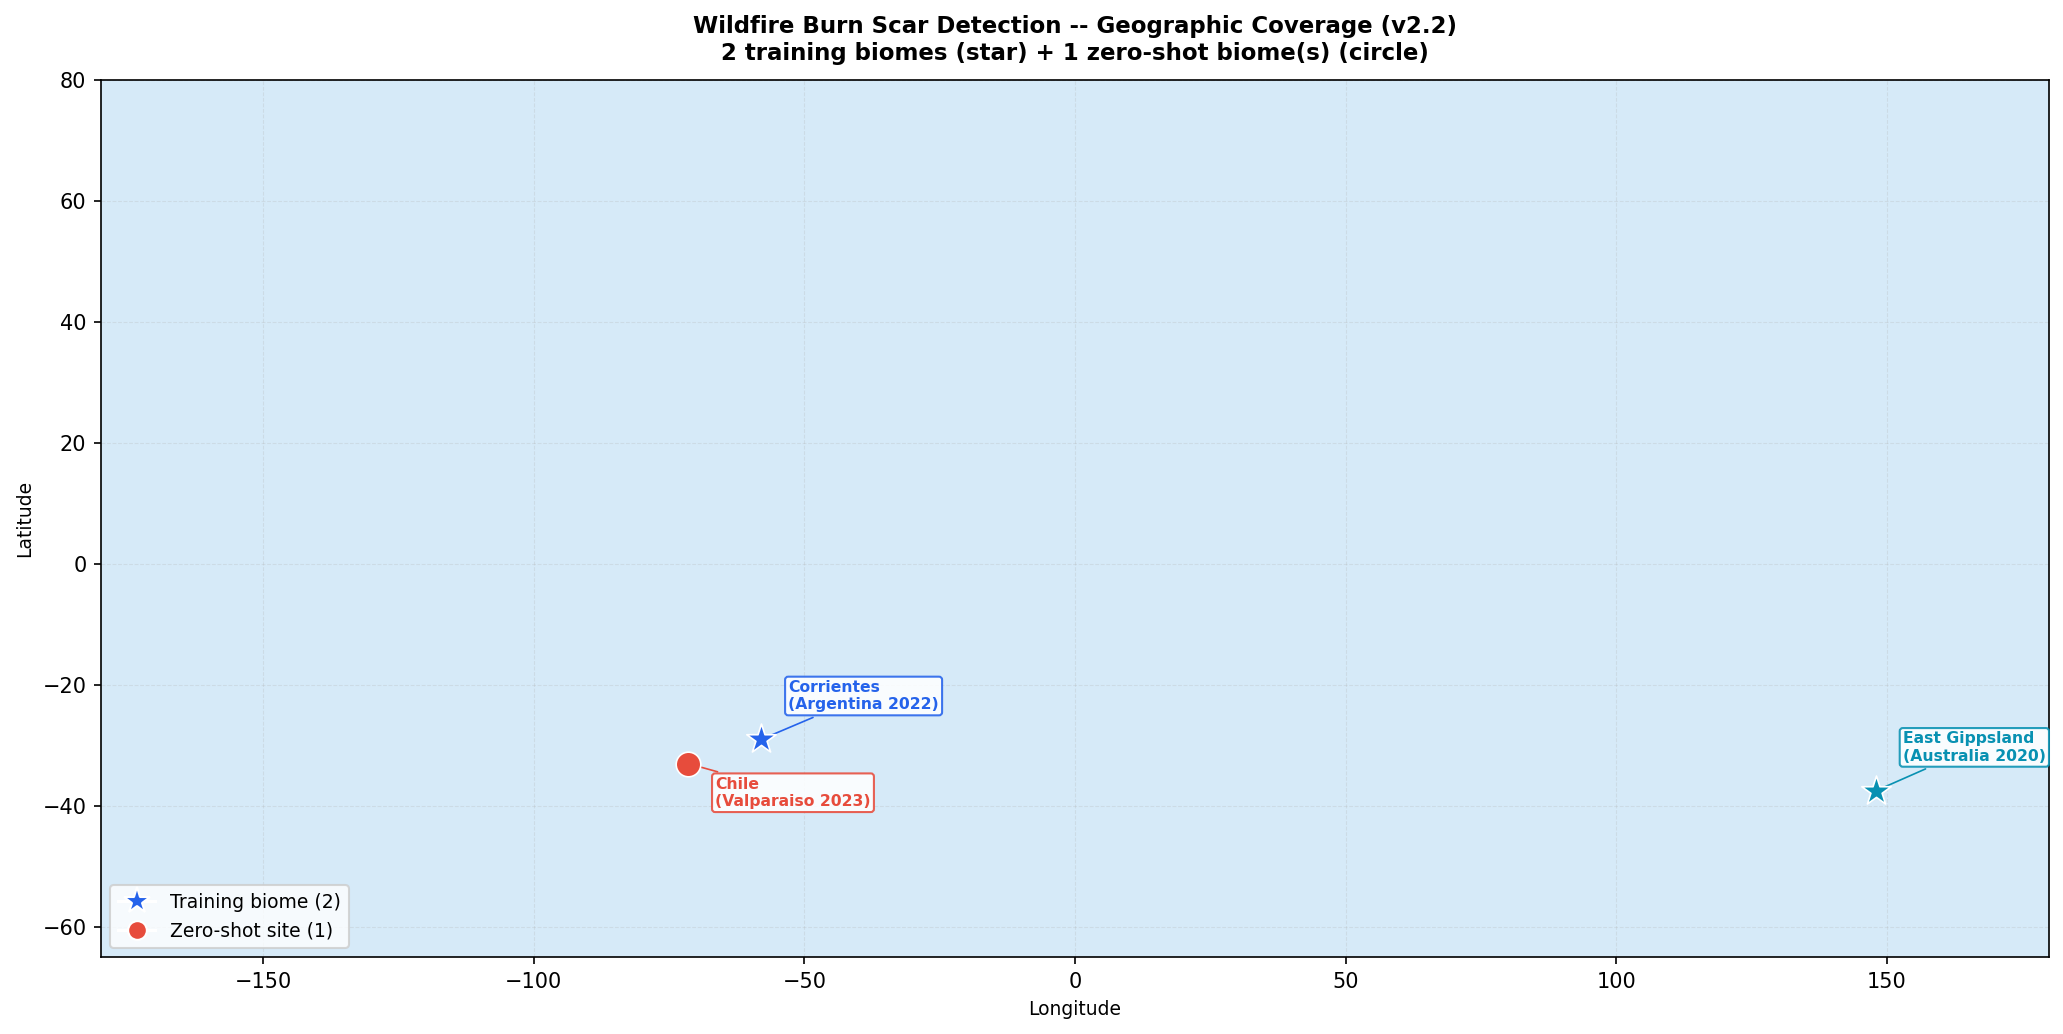
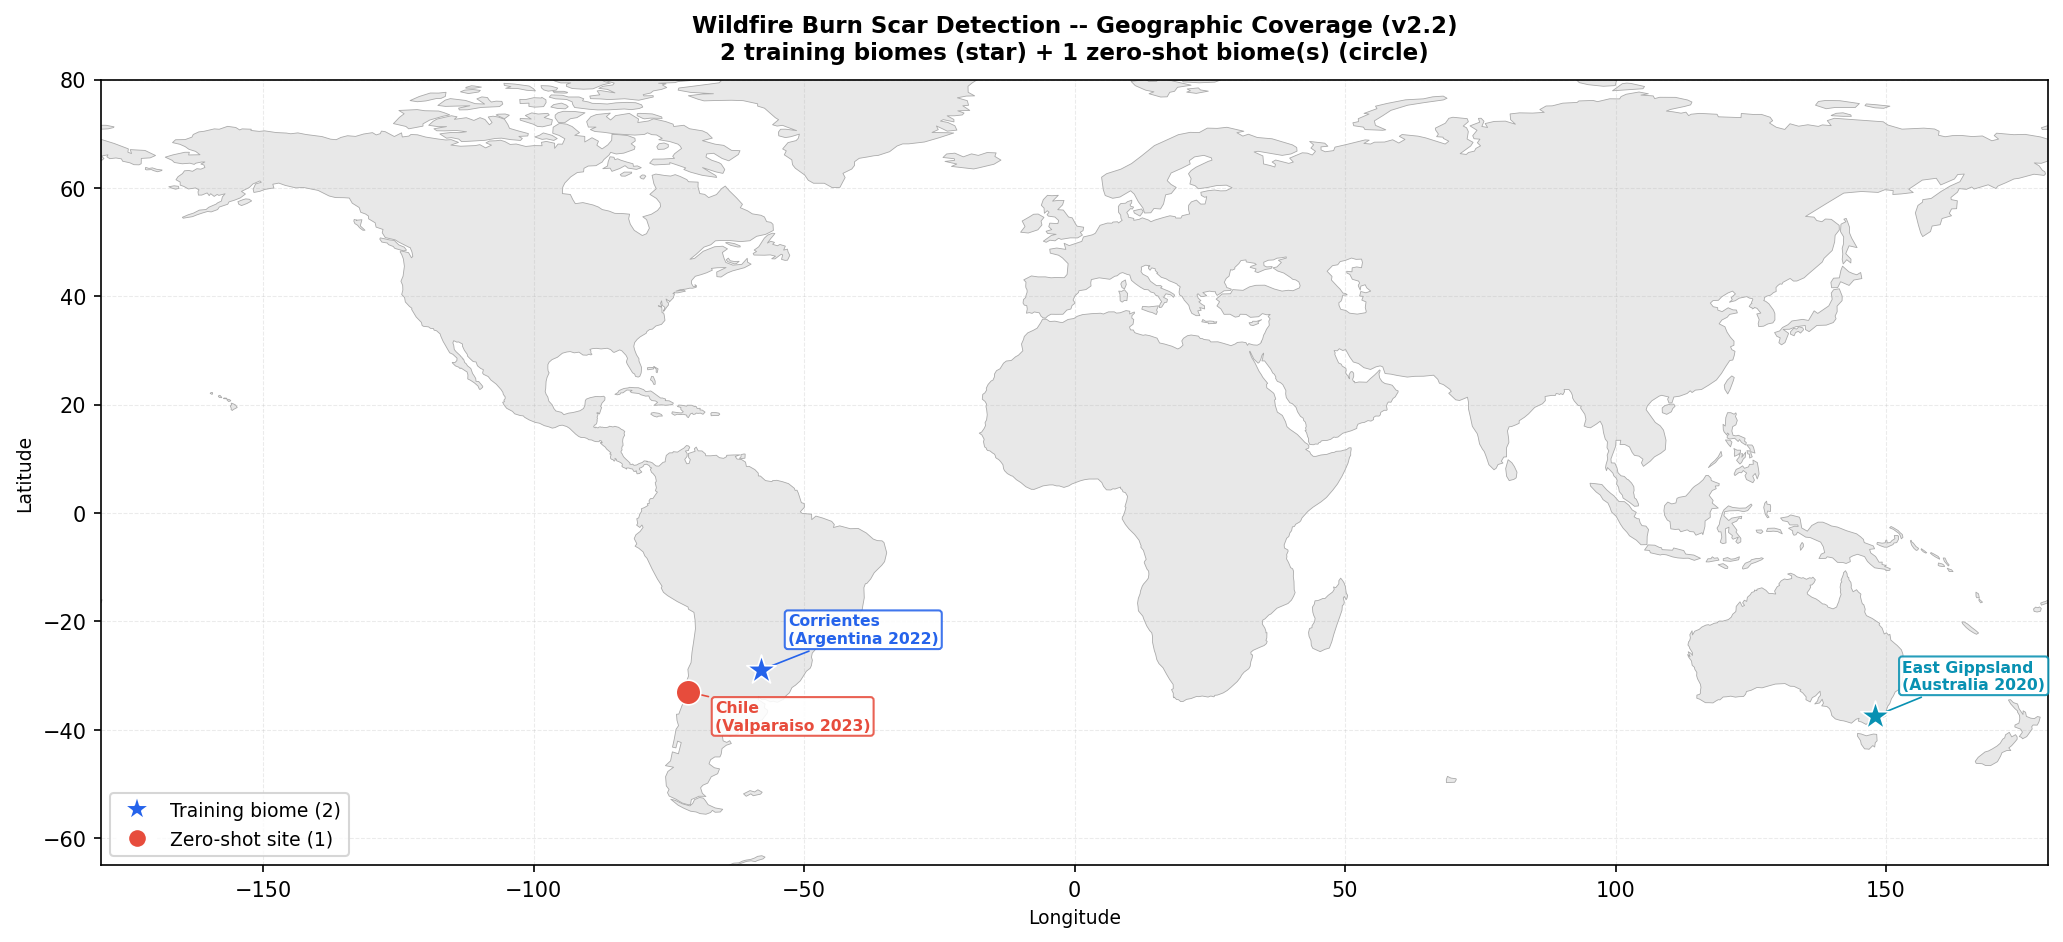
fix world map basemap and add live demo badge

diff --git a/README.md b/README.md
@@ -1,5 +1,7 @@
 # Wildfire Burn Scar Detection -- Prithvi-EO Foundation Models and Sentinel-2
 
+[![Live Demo](https://img.shields.io/badge/demo-live-brightgreen)](https://aacunapintos.github.io/wildfire-burn-scar-detection/) [![License: MIT](https://img.shields.io/badge/license-MIT-blue)](#license)
+
 Zero-shot cross-biome burn scar segmentation using IBM/NASA geospatial foundation models on Sentinel-2 L2A imagery. Trained on two fire events on two continents, the model generates GIS-ready burn scar polygons on wildfires it has never seen, with no target-domain annotations.
 
 **[Explore the live interactive demo](https://aacunapintos.github.io/wildfire-burn-scar-detection/)** -- click any detected polygon on the Valparaiso, Chile 2023 wildfire for its burn probability, confidence level, area, and perimeter.